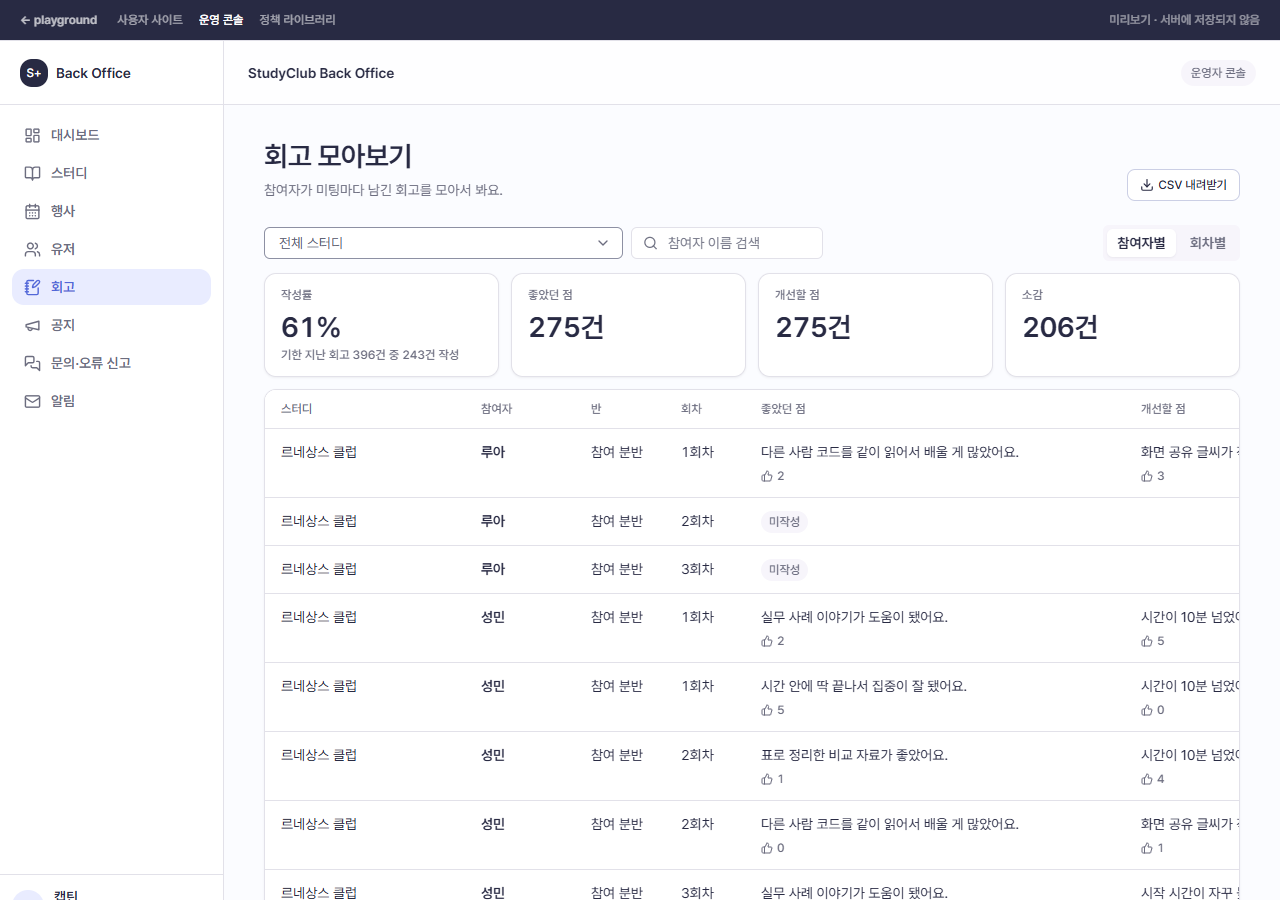
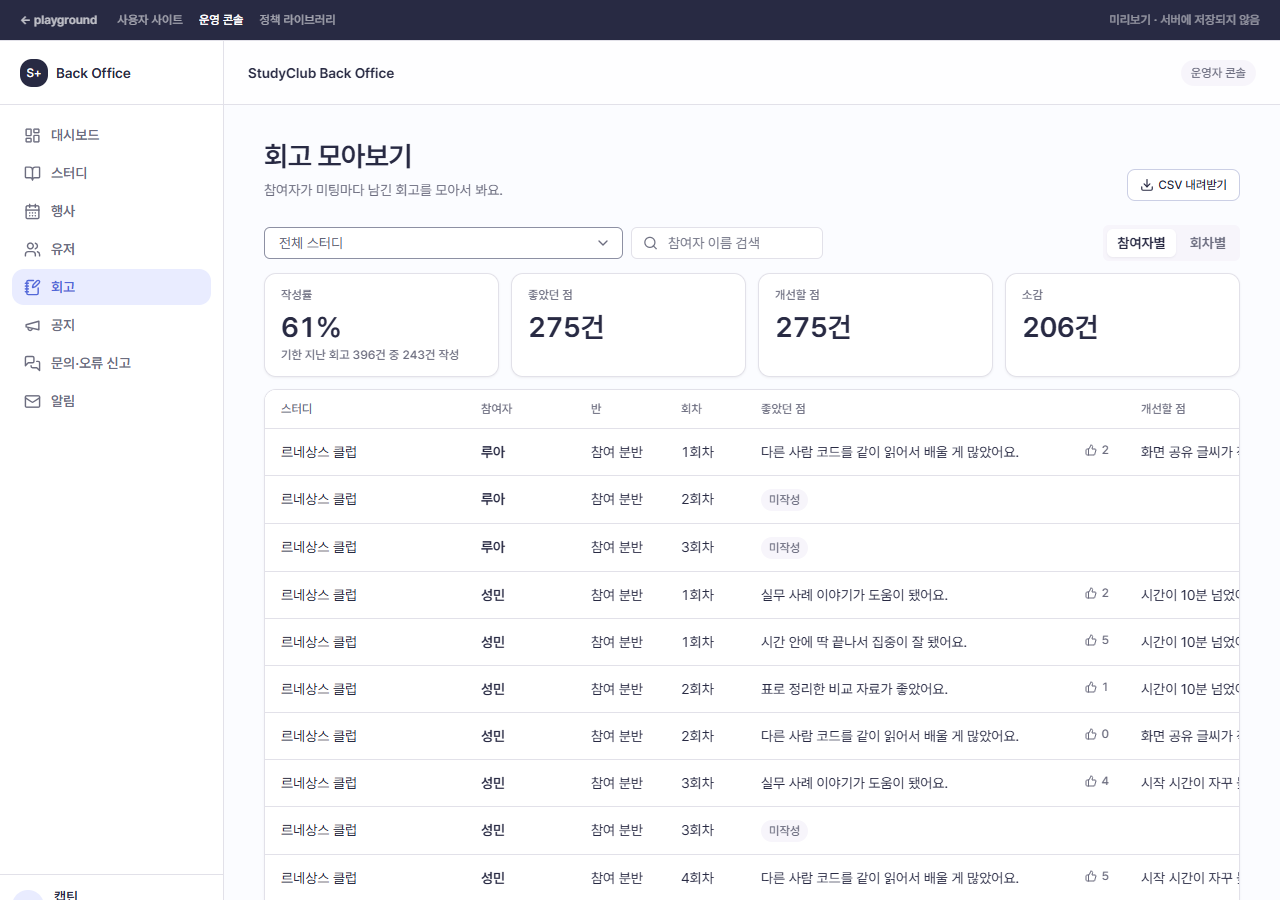
feat(playground): 회고 작성자별 문항 줄을 한 줄로 · 백오피스 👍 를 문항 칸 오른쪽으로
- 넓은 화면: 「문항 · 글 · 👍」 한 줄(문항 칸 폭 고정), 모바일: 문항 아래에 「글 · 👍」
- 회고 모아보기 표의 👍 를 답 아래에서 칸 오른쪽 첫 줄 높이로
- 캡처 다시 찍음

diff --git a/frontend/apps/playground/src/proto/core/components/MeetingRetro.tsx b/frontend/apps/playground/src/proto/core/components/MeetingRetro.tsx
@@ -307,17 +307,17 @@ function AuthorCard({
       </header>
       {RETRO_SECTIONS.map((s, i) =>
         retro[s.key] ? (
-          <section key={s.key} className='mt-3 border-t border-dashed border-border pt-3'>
-            <SectionTag index={i + 1} section={s.key} />
-            {/* 👍 는 글 오른쪽 첫 줄 높이 — 문항별 보기와 같은 자리, 문항마다 한 줄을 덜 쓴다 */}
-            <div className='mt-1.5 flex items-start gap-3'>
-              <p className='min-w-0 flex-1 whitespace-pre-wrap break-words pt-1.5 type-body-sm text-fg'>
-                {retro[s.key]}
-              </p>
-              <span className='shrink-0'>
-                <LikeChip retro={retro} section={s.key} onToggle={() => onLike(s.key)} />
-              </span>
-            </div>
+          // 넓은 화면은 「문항 · 글 · 👍」 한 줄(문항 칸 폭 고정 — 글 시작이 세로로 맞는다), 좁은 화면은 문항 아래에 「글 · 👍」.
+          // 제목 · 👍 는 글 첫 줄 높이에 두고 긴 글만 아래로 꺾인다. 문항별 보기의 「이름 · 글 · 👍」 줄과 같은 틀.
+          <section
+            key={s.key}
+            className='mt-3 grid grid-cols-[minmax(0,1fr)_auto] items-start gap-x-3 gap-y-1.5 border-t border-dashed border-border pt-3 md:grid-cols-[5.75rem_minmax(0,1fr)_auto]'
+          >
+            <span className='col-span-2 md:col-span-1 md:pt-1'>
+              <SectionTag index={i + 1} section={s.key} />
+            </span>
+            <p className='whitespace-pre-wrap break-words pt-1.5 type-body-sm text-fg'>{retro[s.key]}</p>
+            <LikeChip retro={retro} section={s.key} onToggle={() => onLike(s.key)} />
           </section>
         ) : (
           <p key={s.key} className='mt-3 border-t border-dashed border-border pt-3 type-label-sm text-fg-muted'>

diff --git a/frontend/apps/playground/src/app/(proto)/proto/console/retros/spec.ts b/frontend/apps/playground/src/app/(proto)/proto/console/retros/spec.ts
@@ -34,7 +34,10 @@ export const SPEC: ScreenSpec = {
     {
       n: '2',
       title: '요약',
-      display: ['작성률 — 「기한 지난 회고 n건 중 m건 작성」과 함께. 기한 지난 회차가 없으면 「-」 · 「기한이 지난 회차가 아직 없어요」', '좋았던 점 · 개선할 점 · 소감 — 남긴 건수'],
+      display: [
+        '작성률 — 「기한 지난 회고 n건 중 m건 작성」과 함께. 기한 지난 회차가 없으면 「-」 · 「기한이 지난 회차가 아직 없어요」',
+        '좋았던 점 · 개선할 점 · 소감 — 남긴 건수',
+      ],
       policy: [
         '좁힌 조건 전체로 센다(지금 페이지만이 아니라)',
         '작성률 = 기한 지난 줄 중 쓴 줄 ÷ 기한 지난 줄, 반올림한 정수 %. 기한 전 회차는 아직 쓸 수 있어 세지 않는다',
@@ -46,7 +49,7 @@ export const SPEC: ScreenSpec = {
       title: '회고 표',
       display: [
         '스터디 · 참여자 · 반 · 회차 · 좋았던 점 · 개선할 점 · 소감 · 작성일',
-        '문항 칸은 답 전문과 받은 👍 수. 비운 소감은 「-」',
+        '문항 칸은 답 전문과 받은 👍 수 — 👍 는 칸 오른쪽, 답 첫 줄 높이. 비운 소감은 「-」',
         '조건에 맞는 줄이 없으면 「조건에 맞는 회고가 없어요.」',
       ],
       behavior: ['표가 넓어 가로로 민다. 스터디 · 참여자 열은 밀어도 남는다'],

diff --git a/frontend/apps/playground/src/proto/console/components/RetrosTable.tsx b/frontend/apps/playground/src/proto/console/components/RetrosTable.tsx
@@ -62,12 +62,13 @@ function AnswerCell({ row, section }: { row: Row; section: RetroSection }) {
   if (!r) return null;
   if (!r[section]) return <span className='text-fg-muted'>-</span>;
   return (
-    <>
-      <span className='whitespace-pre-wrap break-words'>{r[section]}</span>
-      <span className='tnum mt-1 flex items-center gap-1 type-label-sm text-fg-muted'>
+    // 👍 는 답 아래가 아니라 칸 오른쪽 첫 줄 높이 — 줄 높이를 덜 쓰고, 세로로 훑을 때 수가 한 줄로 맞는다
+    <span className='flex items-start gap-3'>
+      <span className='min-w-0 flex-1 whitespace-pre-wrap break-words'>{r[section]}</span>
+      <span className='tnum flex shrink-0 items-center gap-1 type-label-sm text-fg-muted'>
         <ThumbsUp size={12} aria-hidden /> {r.likes[section]}
       </span>
-    </>
+    </span>
   );
 }
 

diff --git a/frontend/apps/playground/src/app/(proto)/proto/core/[locale]/my/joined/[id]/schedule/retro/spec.ts b/frontend/apps/playground/src/app/(proto)/proto/core/[locale]/my/joined/[id]/schedule/retro/spec.ts
@@ -88,6 +88,7 @@ export const CREW_RETRO_SPEC: ScreenSpec = {
       title: '회고 목록',
       display: [
         '작성자별: 이름 · 역할(네비게이터) · 문항 세 개. 쓴 시각은 보이지 않는다. 안 남긴 소감은 「소감을 남기지 않았어요」',
+        '작성자별 문항 줄: 넓은 화면은 「문항 · 글 · 👍」 한 줄, 모바일은 문항 아래에 「글 · 👍」',
         '문항별: 문항마다 답 수와 「○○ 님은 남기지 않았어요」, 답마다 이름',
         '쓴 회고가 없으면 「아직 이 회차에 남긴 회고가 없어요.」',
       ],

diff --git a/01-planning/stories/crew-write-meeting-retro/PRD.md b/01-planning/stories/crew-write-meeting-retro/PRD.md
@@ -117,6 +117,7 @@ flowchart LR
 
 - **내용**
   - 작성자별: 이름 · 역할(네비게이터) · 문항 세 개. 쓴 시각은 보이지 않는다. 안 남긴 소감은 「소감을 남기지 않았어요」
+  - 작성자별 문항 줄: 넓은 화면은 「문항 · 글 · 👍」 한 줄, 모바일은 문항 아래에 「글 · 👍」
   - 문항별: 문항마다 답 수와 「○○ 님은 남기지 않았어요」, 답마다 이름
   - 쓴 회고가 없으면 「아직 이 회차에 남긴 회고가 없어요.」
 - **정책**

diff --git a/01-planning/stories/captain-collect-meeting-retros/PRD.md b/01-planning/stories/captain-collect-meeting-retros/PRD.md
@@ -72,7 +72,7 @@ flowchart LR
 
 - **내용**
   - 스터디 · 참여자 · 반 · 회차 · 좋았던 점 · 개선할 점 · 소감 · 작성일
-  - 문항 칸은 답 전문과 받은 👍 수. 비운 소감은 「-」
+  - 문항 칸은 답 전문과 받은 👍 수 — 👍 는 칸 오른쪽, 답 첫 줄 높이. 비운 소감은 「-」
   - 조건에 맞는 줄이 없으면 「조건에 맞는 회고가 없어요.」
 - **동작**: 표가 넓어 가로로 민다. 스터디 · 참여자 열은 밀어도 남는다
 - **정책**
